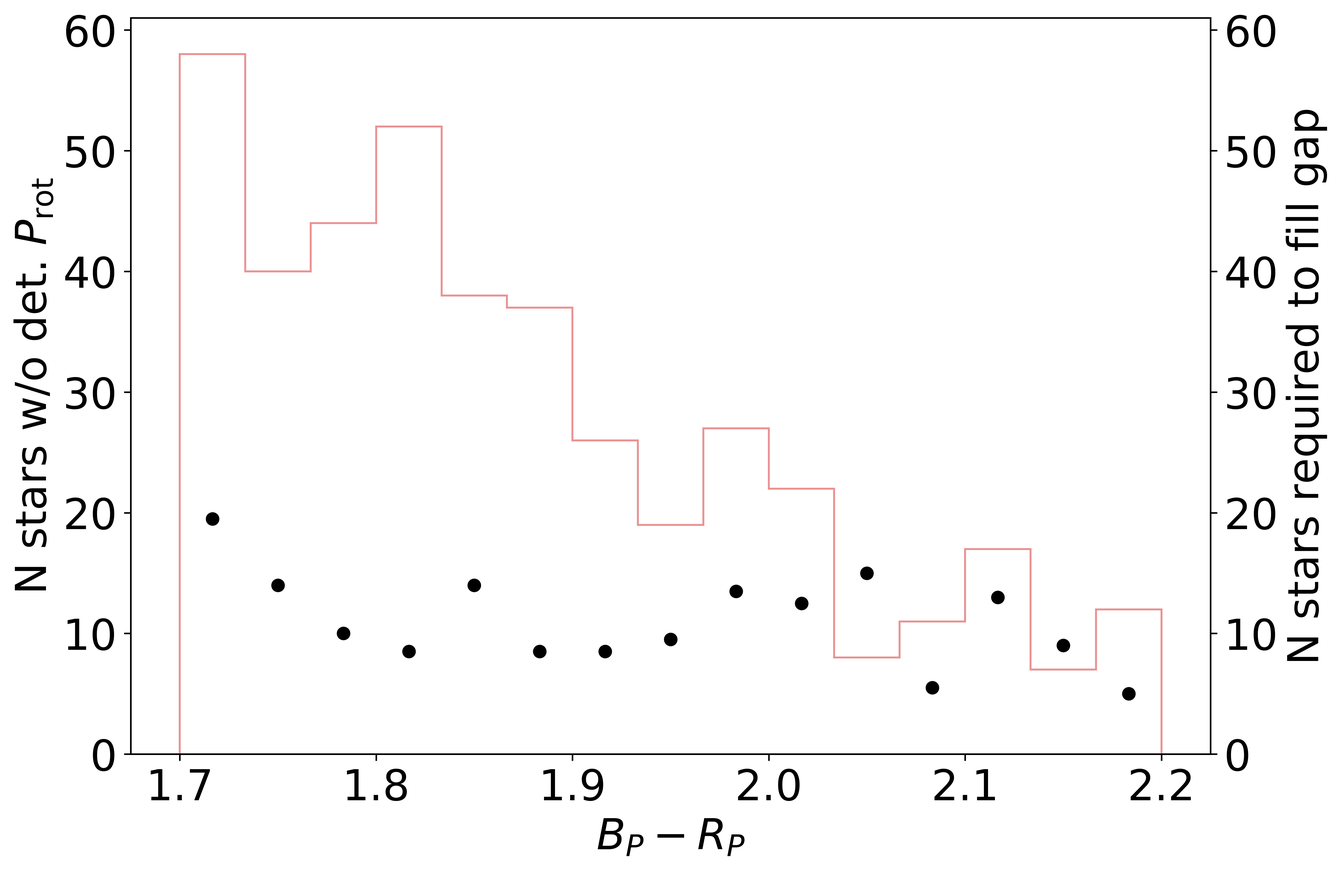
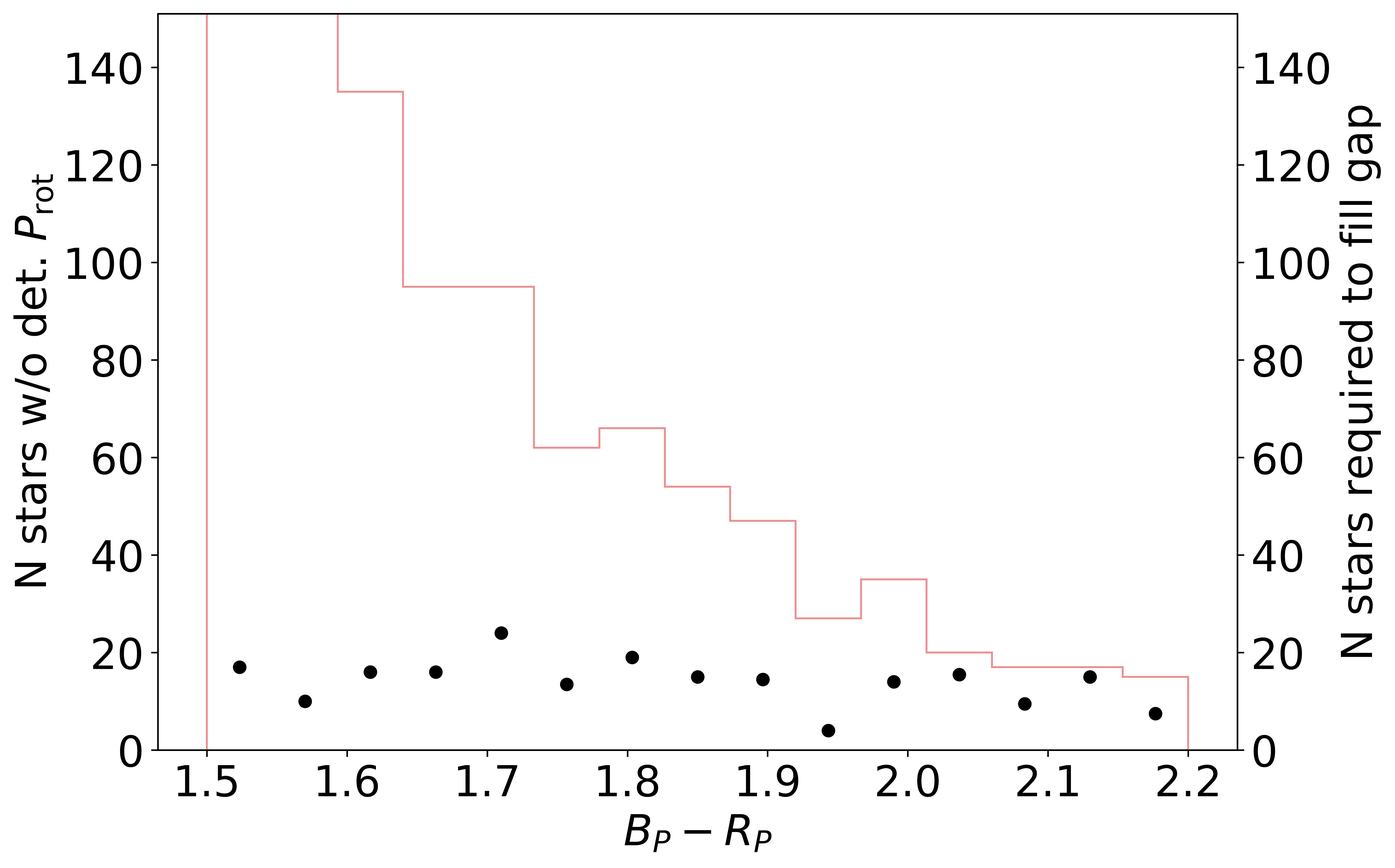
update text and figures

diff --git a/Chapters/rotational_period_gap_chapter.tex b/Chapters/rotational_period_gap_chapter.tex
@@ -3,8 +3,6 @@
 \newcommand\rper{$R_{\rm{per}}$}
 
 
-
-
 \chapter{The Intermediate Period Gap}
 
 \section*{Abstract}
@@ -16,7 +14,11 @@ This dearth of observations is known as the intermediate period gap.
 The position of this gap varies with the colour of the stars.
 Various mechanisms have been proposed to explain the dearth of observations from stars physically "jumping" the gap through enhanced wind-braking, to stars above and below the gap representing two populations of stars, to the gap representing a minima of probability to observe rotation rate.
 The exact cause of the dearth of observations is currently unknown.
-In this Chapter we discuss the various hypotheses of the mechanism underlying the intermediate period gap and discuss our work to determine the likelihood of each of these mechanisms being at play.
+In this Chapter, we show that the gap aligns itself with minima in both the photometric variability range and magnetic activity indicator $\log R^{+}_{\rm{HK}}$.
+This suggests that the minima of photometric variability and $\log R^{+}_{\rm{HK}}$ result from the same mechanism.
+We also suggest that there is no subsample of stars with uncharacteristically low magnetic activity in the sample of stars without detection rotation periods.
+Further, we argue that the number of stars with undetected rotation periods is unlikely to fill the dearth of observations.
+We propose that the data suggests that the gap does not represent a minima of observation of stellar rotation through photometric variability.
 
 \newpage
 
@@ -26,9 +28,10 @@ Measurement of the rotational period of samples of stars allows us to understand
 For example, the mass-dependent core-envelope coupling and decoupling of young stars have only recently been observed by measuring the rotational period of stars with age through the rotational period distribution of clusters \citep{reinhold_rotation_2015-1}.
 An unexplained feature of the rotational period distribution of low-mass main-sequence stars comes in the form of what is known as the intermediate period gap.
 The intermediate period gap represents a minimum of observations of stars with particular rotation periods dependent on temperature, first observed by \citet{mcquillan_rotation_2014}.
-The period that the gap appears increases with decreasing temperature/mass.
-The gap is robust between different photometric observation missions \citep{mcquillan_rotation_2014,davenport_rotating_2017,davenport_rotating_2018,lu_bridging_2022}, multiple period detection methods and varies its position in period with respect to mass. 
+The feature is selection function independent - the gap is robust between different photometric observation missions \citep{mcquillan_rotation_2014,davenport_rotating_2017,davenport_rotating_2018,lu_bridging_2022}, multiple period detection methods and varies its position in period with respect to mass. 
 This suggests that the lack of observation of stars is not a quirk in the data or the data analysis process but a physical feature of the stars we are observing.
+The quality cuts made to the samples of stars where rotation is attempted to be measured do not appear to be biased away from detecting gap stars.
+
 
 Multiple mechanisms have been proposed to explain the intermediate period gap.
 \citet{mcquillan_rotation_2014} first proposed that the gap represents bimodal bursty star formation in the local \kepler field.
@@ -61,29 +64,6 @@ They did not find more stars in or around the intermediate period gap than \cite
 They tentatively found that the relation between kinematic age and Rossby number of stars above and below the gap is discontinuous (see Figure 11 in their work).
 While this result supports the hypothesis that stars could have gone through a phase of rapid spin-down and jumped over the gap, more precise measurement of kinematic ages for more stars is required to support this claim.
 
-
-
-
-
-
-However, the photometric variability also increases
-
-
-In this work we interchangably use the terms probability of observation of rotation, detectability of rotation period here.
-The detectability of rotation period is dependent on a number of factors on a star to star basis
-
-
-The detectability of rotation with fundamental stellar properties (temperature, metallicity etc.) has been previously investigated.
-Cooler stars, especially cooler than 5,200K are detected in period significantly more than hotter stars.
-Cooler stars both tend to have higher magnetic activity, and therefore more spots, and also have larger brightness variations as a result of the same level of surface spot activity compared to hotter stars \citep{ mcquillan_rotation_2014, santos_surface_2020, zhang_magnetic_2020}
-A relation with metallicity has also been investigatied \citep{amard_evidence_2020,see_photometric_2021,claytor_recovery_2022}.
-Higher-metallicity ([Fe/H] $\gtrsim$ -0.1) stars being detected in period more frequently than lower-metallicity stars.
- \citep{avallone_rotation_2022, masuda_detectability_2022} separate the metallicity dependence from age and suggest that this effect arises from the fact that younger, more active stars are enriched by metals from Galactic chemical evolution rather than an effect of the metallicity on the evolution of magnetic activity and probability of rotational observation.
-
-
-
-
-
 On the other hand, \citet{reinhold_transition_2019} and \citet{reinhold_stellar_2020} proposed that a transition from dark spot creates the gap - to bright facula dominance in the activity cycle of a star.
 In this work, they differentiate between the rotation brightness modulation and brightness modulation from the stellar activity cycle.
 Stellar activity modulation refers to the long-term evolution of average brightness due to stellar spots and faculae rather than variations on the rotational time scale.
@@ -91,15 +71,8 @@ They suggest that as a star spins down and the magnetic field topology changes, 
 In such a scenario, the photometric variability amplitude decreases in because of the partial cancellation by the increase and decrease in brightness from the faculae and spots, respectively.
 Hence, the stars with small photometric variability will not be detected.
 This hypothesis is supported by the gap aligning with a line of constant Rossby number - indicative of common magnetic field evolution between these stars - and by the photometric variability reaching a local minimum surrounding the gap.
-
-
-
 The authors do not appear to suggest a reason for spot-dominated stars appearing above the gap nor a mechanism for the increase in rotational photometric variation amplitude above the gap.
 Further, the variability levels on both sides of the gap are not close to the detection limit: periods are detected for stars with similar properties at much lower \rper{} values.
-
-
-
-
 
 If the gap aligned itself with a line of constant rotation in only one mission, then the mechanism underlying the gap could be more readily explained through the selection function of said mission.
 These factors suggest that the intermediate period gap represents a function of stellar evolution or an unaccounted-for problem in observing rotation periods through photometric oscillations from stellar spots.
@@ -127,7 +100,34 @@ It is entirely possible, but likely not probable, that gap stars have been previ
 On the other hand, gap stars may not be otherwise peculiar - chemically or, say, in terms of magnetic activity.
 If indeed they are not otherwise peculiar, then, oxymoronically, the reason for their lack of observation raises more questions about the mechanism underlying the gap.
 
-\subsection{Stellar activity indicators}
+
+In this work, we will use the terms probability of observation of rotation and detectability of rotation period.
+While they are related, they are distinct terms.
+The detectability of rotation requires a relatively short cadence, on the time scale of days-weeks, observations with distinct variability in the light curve due to spots, or faculae.
+It is dependent on a number of factors on a star-to-star basis, including the inclination angle, wherein the magnetic activity cycle observations are made, where faculae and spots are distributed on the surface of the star and the lifetimes of these surface features relative to the rotation period of the star. \citep{aigrain_hare_2015, reinhold_spot_2018, reinhold_where_2021}.
+On the other hand, the probability of observation of rotation refers to a more stellar parameter-based average statistic under the comparison of the set of stars with and without detection rotation periods.
+The detectability of rotation with fundamental stellar properties (temperature, metallicity, stellar age etc.) has been previously investigated.
+Cooler stars, especially cooler than 5,200K are detected in period significantly more than hotter stars.
+Cooler stars both tend to have higher magnetic activity, and therefore more spots, and also have larger brightness variations as a result of the same level of surface spot activity compared to hotter stars \citep{ mcquillan_rotation_2014, santos_surface_2020, zhang_magnetic_2020}
+A relation with metallicity has also been investigatied \citep{amard_evidence_2020,see_photometric_2021,claytor_recovery_2022}.
+Higher-metallicity ([Fe/H] $\gtrsim$ -0.1) stars being detected in period more frequently than lower-metallicity stars.
+ \citep{avallone_rotation_2022, masuda_detectability_2022} separate the metallicity dependence from age and suggest that this effect arises from the fact that younger, more active stars are enriched by metals from Galactic chemical evolution rather than an effect of the metallicity on the evolution of magnetic activity and probability of rotational observation.
+Older stars tend to have a lower probability of observation - their rotation periods are long and thus require a longer baseline of observations and they tend to have weaker magnetic fields and thus express a smaller number of stellar spots.
+Many stars cannot have their rotation periods measured, purely from the effect of the inclination angle on the detectability of rotation
+If a star is pole-on, even if a star expresses surface features close to the axis of rotation, no variance in the brightness of that star will be detected.
+Increasing the sensitivity of telescopes, and methods of determining rotation periods, increase the number of stars that can have their rotation periods detected but this number is bounded by the subsample of stars that cannot have their rotation measured.
+While the distribution of the inclination angle of stars is biased toward equator-on observations, a non-zero population of stars will never have their rotation periods detected through photometric variability.
+
+ 
+This Chapter is structured as follows. In Section \ref{sec:act_ind} we will introduce the so-called magnetic activity indicators. 
+In Section \ref{minima_rper} we reconfirm that the gap aligns itself with a minima in photometric variability range, then in Section \ref{minima_rhk} we show that this minima aligns itself with a minima in $\log R^{+}_{\rm{HK}}$.
+We then show, in Section \ref{sec:low_activity_gap}, that the sample of stars with undetected rotation does not contain a subsample of stars with magnetic activity low enough to fall below the rotation-detection threshold.
+In Section \ref{sec:no_gap_stars} we show that the number of stars required for the dearth of observations to no longer be considered a dearth requires a larger number of stars than the number of stars within the undetected sample.
+Finally in Section \ref{sec:sum_dis} we summarise and discuss the implications of our work on proposed mechanisms to explain the intermediate period gap.
+
+
+\section{Stellar activity indicators}
+\label{sec:act_ind}
 
 Stellar magnetism is a complex component of stellar evolution that is hard to model.
 Links between magnetism and mass, metallicity, age, convection, and rotation have been identified \citep{cao_starspots_2022}.
@@ -171,7 +171,8 @@ The magnetic activity also varies with the stellar magnetic cycle of a star, wit
 Therefore, a single temporal measurement of magnetic activity must be treated with care.
 In this work we will adopt a population study approach to minimise this effect.
 
-\section{The decrease in photometric variability of stars near the intermediate period gap}
+\section{The gap aligns with a minima in photometric variability}
+\label{sec:minima_rper}
 
 The first mechanism we consider is that the rotation period gap reflects a decrease in photometric variability due to a variation in the magnetic field strength of stars near the gap.
 We will begin with the 33,000 stars with rotation periods from \citet{mcquillan_rotation_2014}.
@@ -281,6 +282,9 @@ This implies that if the drop in photometric variability is not the cause for th
 \rper{} \ is not well defined for stars where rotation is not detected- as \rper{} is defined by the photometric variability range over the a rotational period time-scale.
 Therefore we do not know whether the potential stars that lay within the gap, which we cannot observe because of the supposed dramatic decrease in \rper{}, do or do not suddenly decrease in \rper{}.
 
+\section{The gap aligns with a minima in $\log R^{+}_{\rm{HK}}$ }
+\label{sec:minima_rhk}
+
 While it has been well established that the photometric variability of stars decreases towards the intermediate period gap other magnetic activity indicators have not been explored in this regard only the large-scale trends with stellar mass and rotation \citep{zhang_magnetic_2020}.
 Suppose other magnetic activity indicators vary in the same fashion as \rper{} - decreasing to a minima at the rotational period gap. 
 In that case, it is more likely that the decrease in \rper{} towards the gap results from a variation in the magnetic field of stars.
@@ -310,8 +314,6 @@ This cut-off was chosen because of the reduced number of stars in the sample but
 The median and median absolute deviation of both $\log \ R^{+}_{HK}$ and \rper{} \ in these slices was then calculated, which we then fit with cubic splines against the log of rotation period.
 We have repeated this method on \rper{} \ here because we are using a subset of the original stars and to compare the recovered minima from the subset more accurately - this also allows us to confirm the accuracy of the fit of our minima in the first test.
 The minima of the cubic spline fits are then calculated again using the first and second derivatives.
-Due to the smaller number of stars in the sample, we have ignored minima that align with bins with less than four stars. 
-Because of this we have manually ignored the low-rotational period $\log \ R^{+}_{HK}$ minima in the $B_P - R_P$ = (0.97- 1.14) and (1.14 - 1.31) slices.
 
 \begin{figure}
 \centering
@@ -323,8 +325,7 @@ Because of this we have manually ignored the low-rotational period $\log \ R^{+}
 
 We compare the distributions of \rper{} \ and $\log \ R^{+}_{HK}$ against the log of rotation period in Figure \ref{fig:rot_rper_rhk} and show the found minima in blue and orange solid vertical lines for \rper{} \ and $\log \ R^{+}_{HK}$ respectively.
 Like photometric variability, $\log \ R^{+}_{HK}$ tends to decrease with rotational period - owing to their relation to the strength of the magnetic field.
-We find that generally \rper{} \ and $\log \ R^{+}_{HK}$ are directly tied. 
-Increases and decreases to the median value with rotational period in one tends to align with a similar response in the other.
+We find that, generally, \rper{} \ and $\log \ R^{+}_{HK}$ are directly tied - increases and decreases to the median value with rotational period in one tends to align with a similar response in the other.
 
 We show the comparison of the recovered minima from \rper{} using this subset as well as the minima recovered using $\log \ R^{+}_{HK}$ in Figure \ref{fig:indicating_minima}.
 The recovered \rper{} \ minima using the subset lay on top of the \rper{} minima recovered using the full sample.
@@ -338,6 +339,9 @@ The detection of the coincidence in a single slice of $B_P-R_P$ could be explain
 However, the detection of this in multiple slices of $B_P-R_P$ suggests that the cause of the minima is related.
 Further study of this relationship is required to confirm the coincidence of the minima with a larger dataset of chromospheric magnetic activity indicators or with other magnetic activity indicators.
 We will assume for now that the rotational period gap does align itself with minima in both \rper{} and $\log \ R^{+}_{HK}$ and explore whether there is a sample of low-magnetic activity, non-detected rotators. 
+
+\section{Do we observe a subsample of low-magnetic activity gap stars?}
+\label{sec:low_activity_gap}
 
 If the gap contains stars that have dramatically low \rper{} and thus do not have detectable rotation periods, then $\log \ R^{+}_{HK}$ should also dramatically drop within this region.
 Further, if there is a sample of dramatically lower $\log \ R^{+}_{HK}$ stars without detected rotation periods then this sample supports the hypothesis that the intermediate period gap is the result of a decreased probability to observe stars at those rotation periods due to a decrease in stellar activity.
@@ -416,81 +420,89 @@ While stars older-slowly rotating stars also tend to have lower $\log \ R^{+}_{H
 For the gap to exist the magnetic activity would need to drop to a point where observation of rotation period is impossible, which is not supported by the data here.
 
 
-Alternatively, only observe stars at the minimum of their activity cycles
+\section{The lack of observation of stars that could fill the intermediate period gap}
+\label{sec:no_gap_stars}
+
+
+In this work we have suggested that the data does not support the hypothesis that the rotational period gap is in-fact full of stars without detectable rotation periods.
+If the gap is indeed full of stars without detectable rotation periods then, if we assume that the selection functions of both the time-series photometric missions (\kepler{}, \ktoo{}, \tess) nor the works that have attempted to measure the rotation periods of stars from the data collected in those missions is not biased towards not observing or measuring the rotation periods of stars in the gap then the gap stars should permeate the sample of stars without detected rotation periods.
+Further, for the gap to be full of stars there must be enough stars without detected rotation periods to fill the dearth of observations.
+In this Section we will determine whether this is indeed the case.
+
+We compare the distribution of stars in the \citet{mcquillan_rotational_2014} \kepler{} rotating and undetected rotating samples.
+While \citet{santos_surface_2019} has increased the sensitivity of rotational detection of stars in the \kepler{} sample this has not increased the number of observations of stars within or near the gap nor significantly increased the number of low-mass ($B_P-R_P$ $>$1.7) stars with detected rotation periods.
+Our analysis will be focussed on very low mass stars where the gap is most apparent - where \citet{mcquillan_rotational_2014} remains the state-of-the-art.
+We make no quality cuts to the data to ensure we are not preferentially selecting for stars that could/could not possibly fill the gap.
+
+In their work \citet{mcquillan_rotational_2014} differentiates between rotation-detected and non-rotation-detected stars using the threshold described in the previous section. 
+Low-mass stars with low-significance reported rotation periods in the undetected rotation catalogue are disproportionately distributed close to the gap, especially near $B_P-R_P$ = 1. 
+Although these stars do not fill the gap, they have low $w$ and therefore seemingly support the hypothesis that the gap represents a minimum detectability of rotation period.
+However, if we compare the distribution of the number of stars in the rotation detected and undetected samples with colour, as we have shown in Figure \ref{fig:n_det_nondet}, we observe that stars with detectable rotation periods outnumber stars with undetectable rotation periods at lower masses ($B_P-R_P$ $>$1.3), despite the overall 3:1 ratio of the entire detectable to undetectable catalogues.
+Further in the inset of this Figure, where we compare the distributions where the gap is most apparent, we see that the proportion of stars with undetectable rotation periods to stars with detectable rotation periods decreases with decreasing mass, to a minimum of 1:10 undetectable to detectable rotation periods at the lowest masses.
+However, this result in itself does not confirm whether the stars in the undetected rotational period sample fill the gap.
+We instead determine how many stars would be required to fill the gap, or rather for the dearth in observations to be undetectable in the low mass range where the proportion of stars between the samples is largest and where the gap is most apparent ($B_P-R_P$ $>$1.5).
+
+
+To find the number of stars required for the dearth of observations to be no longer considered a dearth we first separate the sample with detected rotation into bins of $B_P - R_P$ (colour) from 1.5-2.2 of size 0.045 (15 bins).
+In each colour interval, we then split the data into log rotational period intervals of width 0.07 dex between 1.0 and 1.7 dex (10 bins) - which correspond to 10 and 50 days, respectively.
+We then calculate the number of stars in each slice of log period for a given colour range and remove bins with only 1 star from our analysis.
+In FIgure \ref{fig:n_col} we show the number of stars in each slice (scatter points) against $\log_{10}$ of the rotation period for each colour range indicated in brackets to which we have fit a cubic spline (dashed)
+From the cubic spline, we can use the first and second derivatives of the spline to accurately determine the position of the local minima in density, which is indicated by the solid vertical black line.
+The calculation of the position of the minima is again an automated process as carried out in the previous Sections.
+To calculate the number of stars required for the dearth/minima to be no longer apparent we compare the number of stars in the closest scatter point to the minima to the average of the two scatter points surrounding it.
+While this approach is admittedly naive, it assumes all of the stars will be in the bin closest to the minima rather than being distributed throughout the dearth region, it places a lower bound on the stars required to be observed for the gap to be filled and accounts for the decrease in the number of stars observed at lower masses.
+
+In Figure \ref{fig:stars_not_fill} we compare the number of stars required to fill the gap to the number of stars without detected rotation periods in each colour range.
+We find that the number of stars required to fill the gap is approximately constant at N $\sim$ 20.
+This suggests that the number of stars required gap is independent of the total number of stars observed in that mass range.
+If the gap is full of stars without detectable rotation periods we expect the proportion of stars required to fill the gap to increase proportionate to the total number of stars (detected and non-detected rotation) but this is not the case.
+The number of stars required to fill the gap is much smaller than the number of stars without detected rotation periods for $B_P-R_P<1.8$.
+As colour increases and the number of observed stars decreases the number of stars required to fill the gap becomes the majority of stars without detected rotation periods.
+This suggests that for the gap to be full of stars with undetected rotational period stars, all of the stars in the undetected rotational period sample would need to be in this small rotational period range and only a very small number of stars with undetected rotation are the result of noise or inclination effects.
+
+
+Two conclusions could be drawn from this result.
+The gap is full of stars with undetectable rotation but most to all of the stars with undetectable rotation must lay within the gap for this to be true.
+The other is that the stars in the gap do not exist - they pass through the gap so quickly that stars with rotation periods that would place them in the gap evolve so quickly that their rotation periods are rarely observed.
+The data appears to favour the latter, supporting the hypothesis that the gap is caused by the sudden onset of strong magnetic braking.
+
+\begin{figure}
+\centering
+    \includegraphics[width=0.5\textwidth]{Figures/rot_gap_figures/hist_obs.png}
+    \caption{A histogram of the distribution of $B_P-R_P$ colour of stars with (green) and without (red) detected rotation periods. \textbf{Inset:} A zoom-in of the distribution for $B_P-R_P>1.5$ where the rotational period gap is most apparent. The distribution in colour of stars with and without detected rotation periods vary. The undetected rotation sample is strongly biased towards stars with $B_P-R_P$ close to 1, comparative to the lower-mass stars where the number of stars drops quickly. Despite the $\sim$3:1 ratio of the number of stars with undetected rotation periods to those with detected rotation periods, the number of stars without detected rotation periods drops below those with detected rotation at $B_P-R_P>1.3$.
+    	}
+    \label{fig:n_det_nondet}
+\end{figure}
 
 
 
-\section{Where are the gap stars?}
+\begin{figure}
+\centering
+    \includegraphics[width=\textwidth]{Figures/rot_gap_figures/n_col.png}
+    \caption{
+    	Number of stars in each bin against $\log_10$ of the rotation period in bins of colour \gaia{} $B_P-R_P$ (indicated in brackets). Here we have fitted a cubic spline to the number of stars in each bin and calculated minima using the first and second derivatives of the fitted cubic spline. The minima in number of stars are shown by solid vertical blue lines. These minima are the rotational period gap.
+}
+    \label{fig:n_col}
+\end{figure}
 
 
-
-The morphology of the solar light curve (as it would be observed in the Total Solar Irradiance or in the broadband spectral passband like those of CoRoT, Kepler, or TESS) changes significantly depending on the phase of the solar activity cycle. While it appears to be quite regular at 11 yr cycle minima when activity is low, the regularity disappears at periods of intermediate and high solar activity (Lanza & Shkolnik 2014; Aigrain et al. 2015; He et al. 2015). In particular, Amazo-Gómez et al. (2020) showed that if the Sun were observed by Kepler, the standard frequency analysis tools would most probably fail to detect the correct rotation period (unless observations are done during epochs of low solar activity). The causes of this inability are manifold: solar rotational variability is mainly brought about by spots (see, e.g., Shapiro et al. 2016). The relatively short lifetimes of sunspots from days to weeks (see, e.g., Solanki 2003) implies that most of the spots transit the visible solar disk only once, which leads to irregularities in the solar light curve, and hampers the detection of the solar rotation period. Furthermore, the brightness changes of dark spots and bright faculae partly compensate each other, which decreases the amplitude of the rotational signal, further hindering the period determination (Shapiro et al. 2017; Nèmec et al. 2020; Witzke et al. 2020). The exception from this general tendency are epochs of low solar activity with a small number of active regions. At these times the rotational variability is attributed to long-lived facular features and the light curve pattern becomes more periodic.
-
-stars are more spot dominated the faster they are rotating. The rotational period gap is not the result of a transition.
-
-
-
-
-Recent works to increase the rotational period detection sensitivity have increased the number of stars with observed rotation periods.
-
-Stars surrounding the gap have uncharacteristically low \rper{}, despite their relatively fast rotation.
-The probability of rotational detection drops with \rper{}, resulting in a decreased probability to observe stars near the rotatational period gap.
-However, the decreased probability to 
-
-While the number of stars surrounding the gap has increased,
-However, increases to the detection efficiency have not yielded a larger sample of rotation periods of star with rotation periods that would place them within the intermediate period gap.
-
-Very few works have analysed the properties distribution of stars without detected rotation in the \kepler{} sample.
+\begin{figure}
+\centering
+    \includegraphics[width=0.5\textwidth]{Figures/rot_gap_figures/stars_donot_fullgap.png}
+    \caption{
+    	The number of stars required to fill the gap (black scatter points) against the number of stars with undetected rotation periods against $B_P-R_P$. The number of stars required to fill the intermediate period gap is roughly constant at N $\sim$ 20. While the number of stars without detected rotation greatly outnumbers the number required to fill the gap below $B_P-R_P \sim 1.8$, the two are almost equal for lower mass stars.
+}
+    \label{fig:stars_not_fill}
+\end{figure}
 
 
-The probability of observation of rotation of stars is expected to drop with decreased photometric variability - smaller variability amplitudes are harder to differentiate from noise.
-The photometric variability of stars is dependent on the expression of stellar spots.
-For two stars of the same colour, as magnetic field strength and thus the expression of stellar spots - in both size and number of expressed stellar spots - increases the photometric variability is expected to also increase.
-The photometric variability also varies with the relative inclination of a stars rotational axis relative to the observer and the position of stellar spots on its surface.
-A rotational axis (pole-on) star will not express any photometric variability as it rotates - despite expressing stellar spots - and as the angle between the rotational axis and the observation axis decreases a star will express larger photometric variability.
-While stars are more likely to be equator on, we cannot discount the possibility that stars without detected rotational period, purely arise from the relative inclination of those stars.
-As a result even that most active stars, in a spot coverage sense, will not have detectable rotation periods.
-
-
-
-
-Low-mass stars with reported rotation periods in the undetected rotation catalogue are disproportionately distributed close to the gap, especially near $B_P-R_P$ = 1. 
-Although these stars do not fill the gap, they have low $w$ and therefore support the hypothesis that the gap represents a minimum detectability of rotation period.
-This can be seen when the undetected rotation catalogue and detected rotation catalogue are overlaid, as shown in Figure \ref{fig:overlay}.
-
-On the other hand, stars with detectable rotation periods outnumber stars with undetectable rotation periods at lower masses ($B_P-R_P$ $>$1.2), despite the overall 3:1 ratio of the entire detectable to undetectable catalogues.
-This is shown in Figure \ref{detectabletoundectable_bprp}.
-Further, the proportion of stars with undetectable rotation periods to stars with detectable rotation periods decreases with decreasing mass, to a minimum of 1:10 undetectable to detectable rotation periods at the lowest masses.
-
-
-
-Two conclusions can be drawn from this result.
-In the first the stars that would fill the gap do not exist - they pass through the gap so quickly that stars with rotation periods that would place them in the gap evolve so quickly that their rotation periods are rarely observed.
-Consider the scenario where full catalogue (detectable and undetectable) is not biased not to include gap stars, and that all of the stars in the undetected catalogue are the result of the gap representing a minima of detectability of rotation period, rather than an inclination angle effect or just the result of random noise.
-Even in these (generous) conditions it is unlikely that the small number of stars are able to fill the gap consistently.
-This appears to suggest that the gap is instead the result of modified spin-down in which stars are quickly braking through the gap.
-
-
-Comparing the distribution of stars with and without period detection in the from the \citet{mcquillan_rotational_2014} sample
-
-
-This suggests that there are no stars within the rotational period gap.
-
-
-
- used to determine the rotational period of \kepler{}
-Low-mass stars have a high probability of period detection.
-This suggests that the gap does not arise from a decreased
-
-
-
-
-
-
-\section{A brief investigation into the spectroscopic rotation of stars near the rotational period gap}
+%\section{A spectroscopic rotation of stars near the rotational period gap}
 
 
 \section{Discussion and Summary}
+\label{sec:disc_sum}
+
+
 
 In this Section we (1) reconfirm that the minima in \rper{} with rotational period align themselves with the position of the rotational period gap and confirmed that this is not the result of a bias in the colour of stars in bins of constant rotation rate brought about through the shape of a dearth of observations, (2) report the possible detection of minima in $\log \ R^{+}_{HK}$  with rotational period that also align themselves with the rotational period gap and (3) explore evidence for the lack of observation of ultra-low magnetic activity stars with no detected rotation period that would be required to explain the low probability of observing stars within the rotational period gap.
 
@@ -518,7 +530,11 @@ Say we don't observe the required ultra low-magnetic activity through more preci
 
 
 
-The counter explanation of the decrease to magnetic
+An alternative explanation for the coincidence of the minima comes from the
+
+Alternatively, only observe stars at the minimum of their activity cycles
+
+
 
 
 
@@ -531,12 +547,29 @@ The data appears to not support the hypothesis that the intermediate rotational 
 
 
 
-Let us consider now the other
+It is not uncommon for rotation to not be detected
+During periods of low activity, such as the 11-year cycle minima, the light curve exhibits a fairly regular pattern. 
+However, this regularity disappears during periods of intermediate and high solar activity, as indicated by studies conducted by Lanza & Shkolnik (2014), Aigrain et al. (2015), and He et al. (2015).
+Amazo-Gómez et al. (2020) demonstrated that if the Sun were observed using the Kepler telescope, standard frequency analysis tools would likely fail to detect the correct rotation period, except during periods of low solar activity. Several factors contribute to this challenge. The primary source of solar rotational variability is the presence of spots, as explained in works like Shapiro et al. (2016). However, since sunspots typically have short lifetimes ranging from days to weeks (Solanki 2003), most of them traverse the visible solar disk only once. This irregularity in their appearance creates complexities in the solar light curve and makes it difficult to determine the solar rotation period accurately.
+Moreover, the brightness variations caused by dark spots and bright faculae partially offset each other, reducing the amplitude of the rotational signal. This further complicates the determination of the rotation period, as discussed in Shapiro et al. (2017), Nèmec et al. (2020), and Witzke et al. (2020). However, an exception to this general trend occurs during periods of low solar activity when the number of active regions is small. 
+
+
+Variability in colour another possible explanation. big star spots
+
+
+The delicate balance of sample size vs where the gap is most apparent.
+
+
+todo:update numbers and text for bin sizes etc.
+
 
 
 
 
 With thanks to Zhang for allowing us to investigate the previously unavailable non-rotating sample
+
+
+
 
 
  %is the result of a decrease in the magnetic activity of
